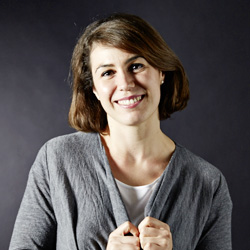
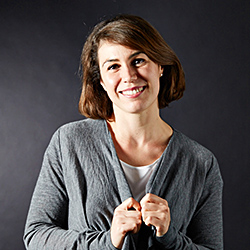
About Image Version 2

diff --git a/css/styles.css b/css/styles.css
@@ -1158,7 +1158,7 @@ ul.social-media-list li a span svg:hover #social-media-logo {
 /*	ABOUT PAGE
 /*-----------------------------------------------------------------------------------*/
 img.me {
-  margin: 0 auto;
+  margin: 40px auto 0 auto;
   max-width: 250px !important;
   -webkit-border-radius: 250px;
   -moz-border-radius: 250px;

diff --git a/about.html b/about.html
@@ -4,6 +4,7 @@ title: "About"
 ---
 
 <article>
+	<h3>From architect to full-time web developer</h3>
 	<p>
 		I went to college and studied architecture (although I still remeber my father doing his best to get me into computer science). I wonder now what was it that didn't attract me to the industry back then.
 		</br></br>

diff --git a/_sass/modules/_about.scss b/_sass/modules/_about.scss
@@ -3,7 +3,7 @@
 /*-----------------------------------------------------------------------------------*/
 
 img.me {
-	margin: 0 auto;
+	margin: 40px auto 0 auto;
 	max-width: 250px !important;
 	-webkit-border-radius: 250px;
 	-moz-border-radius: 250px;
